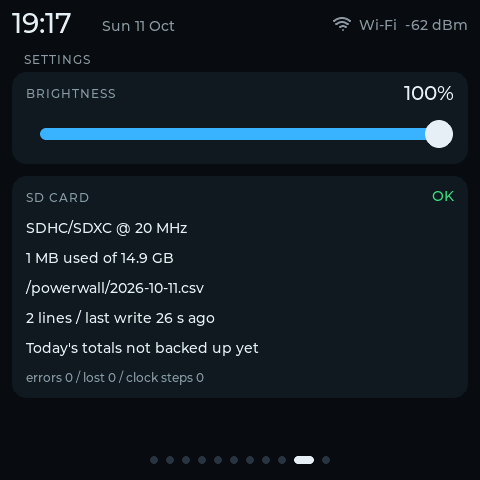
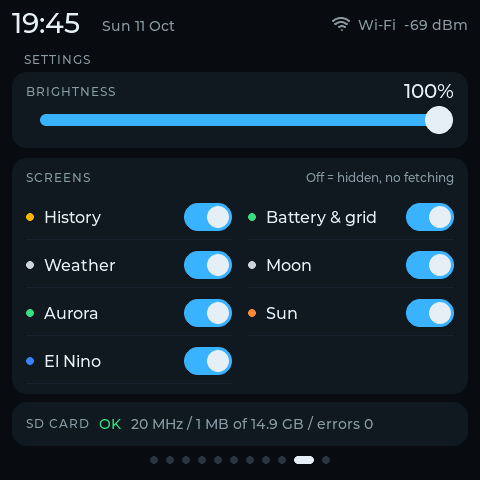
05: settings load decodes SET3 (screen mask + brightness survive reboots); y s <n> diag (forced history saves + panel CS log); saveRecord refuses invalid dates; v updates the top bar at once, screendump waits after v 1; docs: toggles, e/y s commands, inv-panel-drift (open), Q-TOOL-13, hardware log

diff --git a/projects/05-powerwall-display/src/day_history.cpp b/projects/05-powerwall-display/src/day_history.cpp
@@ -13,7 +13,10 @@
 #include "day_history.h"
 
 #include <Arduino.h>
+#include <Board4848S040_pins.h>
 #include <SD.h>
+#include <driver/gpio.h>
+#include <soc/gpio_reg.h>
 #include <atomic>
 #include <esp_attr.h>
 #include <math.h>
@@ -497,6 +500,10 @@ LoadStatus ensureMonth(int ym, const int *keep, int nkeep) {
 }
 
 bool saveRecord(const DayRecord &rec) {
+    if (!validDate(rec.date)) { // never derive a path from a record that isn't one (e.g. RTC before the clock)
+        Serial.printf("dayhist: refusing to save a record with date %ld\n", static_cast<long>(rec.date));
+        return false;
+    }
     const int ym = calc::monthOf(rec.date);
     if (ensureMonth(ym, &ym, 1) == LoadStatus::Error) return false;
     uint32_t t0 = millis();
@@ -755,8 +762,57 @@ void dayHistoryView(View &out) {
     out.seq = s_viewSeq;
 }
 
+// DIAG panel drift (serial "y s <n>"): save a copy of today's record n times, one per SD tick, logging the
+// ST7701 CS pin (GPIO39, shared SCK/SDA with the card) around each save.
+namespace {
+DayRecord s_forceRec;
+std::atomic_int s_forceN{0};
+
+void logPanelCs(const char *when) {
+    const uint32_t en = REG_READ(GPIO_ENABLE1_REG), out = REG_READ(GPIO_OUT1_REG);
+    const int bit = B4848_LCD_CS - 32;
+    Serial.printf("dayhist: diag %s: lcd cs gpio%d output-enable %d level %d (in %d)\n", when, B4848_LCD_CS,
+                  (int)((en >> bit) & 1), (int)((out >> bit) & 1), gpio_get_level(static_cast<gpio_num_t>(B4848_LCD_CS)));
+}
+
+// The junk file the first diag run wrote (fired before the clock was valid, before saveRecord checked dates)
+void removeDiagJunk() {
+    static bool done = false;
+    if (done) return;
+    done = true;
+    sdcard::Lock lk;
+    if (SD.exists("/powerwall/days/-73918--60.bin") && SD.remove("/powerwall/days/-73918--60.bin"))
+        Serial.println("dayhist: removed the junk file from the first diag run");
+}
+
+bool serveForce() {
+    removeDiagJunk();
+    if (s_forceN.load() <= 0) return false;
+    DayRecord r;
+    {
+        LockGuard g(s_mu);
+        memcpy(&r, &s_forceRec, REC_SZ);
+    }
+    const int left = --s_forceN;
+    logPanelCs("before save");
+    const bool ok = saveRecord(r);
+    logPanelCs(ok ? "after save" : "after FAILED save");
+    if (left == 0) Serial.println("dayhist: diag forced saves done");
+    return true;
+}
+} // namespace
+
+void dayHistoryForceSaves(int n) {
+    {
+        LockGuard g(s_mu);
+        memcpy(&s_forceRec, &rtc.rec, REC_SZ);
+    }
+    s_forceN.store(n);
+}
+
 void dayHistorySdTick(bool mounted) {
     s_mounted.store(mounted);
+    if (mounted && serveForce()) return;
     if (mounted != s_prevMounted) {
         s_prevMounted = mounted;
         if (mounted) { // new or swapped card: forget what the old one held

diff --git a/projects/05-powerwall-display/src/history.cpp b/projects/05-powerwall-display/src/history.cpp
@@ -66,19 +66,23 @@ void applyBacklight(int pct) {
 void loadSettings() {
     SettingsFile f;
     memset(&f, 0, sizeof(f));
-    int pct = 0;
+    setcodec::Decoded d;
     // Wrong size, unknown magic or an out-of-range value all fall back to the defaults.
     bool ok = sdcard::readAtomic(SETTINGS_PATH, &f, sizeof(f)) &&
-              blcurve::percentFromSaved(f.magic, f.value, B4848_LCD_BL_MIN, pct);
+              setcodec::decodeSettings(f.magic, f.value, f.screenMask, B4848_LCD_BL_MIN, d);
     {
         LockGuard g(s_lock);
         s_settingsLoaded = true;
         if (!ok || s_settingsDirty) return; // keep defaults, or a change made before the card was read
-        s_settings.brightnessPct = static_cast<uint8_t>(pct);
+        s_settings.brightnessPct = static_cast<uint8_t>(d.brightnessPct);
+        s_settings.screenMask = d.screenMask;
     }
-    applyBacklight(pct);
-    Serial.printf("SD: settings loaded (%s, brightness %d%%)\n",
-                  f.magic == blcurve::SETTINGS_MAGIC_V2 ? "v2" : "v1 converted", pct);
+    applyBacklight(d.brightnessPct);
+    Serial.printf("SD: settings loaded (%s, brightness %d%%, screens 0x%03x)\n",
+                  f.magic == setcodec::SETTINGS_MAGIC_V3   ? "v3"
+                  : f.magic == blcurve::SETTINGS_MAGIC_V2 ? "v2"
+                                                          : "v1 converted",
+                  d.brightnessPct, (unsigned)d.screenMask);
 }
 
 void saveSettingsIfDue() {

diff --git a/projects/05-powerwall-display/src/main.cpp b/projects/05-powerwall-display/src/main.cpp
@@ -505,6 +505,18 @@ static void handleBacklightCommand(char sub, const char *arg) {
 // y [d|w|m|-|+]: drive the history screen like its controls, then describe it (see the top of the file)
 static void cmdHistory(const char *arg) {
     bool ok = true;
+    if (arg[0] == 's' && (arg[1] == ' ' || arg[1] == '\0')) { // DIAG: y s <n> forced month-file saves
+        long n = 1;
+        if (arg[1] && !parseInt(arg + 2, 1, 50, n)) {
+            cmdReply("#err usage: y s <1..50>");
+            return;
+        }
+        dayhist::dayHistoryForceSaves(static_cast<int>(n));
+        char msg[64];
+        snprintf(msg, sizeof(msg), "y s: %ld forced saves queued #ok", n);
+        cmdReply(msg);
+        return;
+    }
     if (!strcmp(arg, "d")) ok = historySetMode(0);
     else if (!strcmp(arg, "w")) ok = historySetMode(1);
     else if (!strcmp(arg, "m")) ok = historySetMode(2);
@@ -580,6 +592,7 @@ static void handleCommand(char *line) {
             } else {
                 ui::setPrivacy(v != 0);
                 screens[current].refresh();
+                ui::topBarUpdateFor(current); // the SSID must be gone before a screenshot right after this
                 cmdReply(v ? "privacy on #ok" : "privacy off #ok");
             }
             break;

diff --git a/projects/05-powerwall-display/src/day_history.h b/projects/05-powerwall-display/src/day_history.h
@@ -79,6 +79,10 @@ void dayHistoryView(View &out);
 // SD task only (history.cpp's loop, every 250 ms): saves due records and serves pending reads.
 void dayHistorySdTick(bool mounted);
 
+// DIAG (serial "y s <n>"): save today's record n times in a row on the SD task, logging the panel's CS pin
+// around each save (panel-drift investigation). UI thread.
+void dayHistoryForceSaves(int n);
+
 // Diagnostics for the serial "y" command: one line describing records saved / loaded / errors.
 void dayHistoryStatusLine(char *buf, size_t n);
 

diff --git a/projects/05-powerwall-display/tools-dev/screendump.py b/projects/05-powerwall-display/tools-dev/screendump.py
@@ -126,6 +126,7 @@ def main():
     ser.open()
     if a.privacy:
         print(command(ser, "v 1"))
+        time.sleep(1.5)  # let the top bar redraw with the placeholder before any shot (older firmware: next tick)
     targets = []
     if a.all:
         listing = command(ser, "l")  # "screens: 0*house, 1 today, ... #ok" (* = current)

diff --git a/CLAUDE.md b/CLAUDE.md
@@ -72,12 +72,12 @@ Public repo (github.com/Figment-Sieve-Industries/esp32-4848s040-lab): commits on
 
 ## Project 05 (Powerwall display) - current state
 - Main screen = design **N** with design **O**'s battery-bar Powerwall pill (colour by charge, % badge inside the battery) from the maintainer's private design canvas (a claude.ai artifact; link not published). Boards A-O there are the option history (P = moon, Q = aurora). Change the canvas first for layout work, then build the chosen board.
-- 11 screens (`ScreenIndex` in `ui_common.h`, `s <0..10>`): house, today, history, health (battery & grid), weather (with sunrise/sunset), moon, aurora, sun, El Nino, settings, about. All credits live on the About screen only (personal device).
+- 11 screens (`ScreenIndex` in `ui_common.h`, `s <0..10>`): house, today, history, health (battery & grid), weather (with sunrise/sunset), moon, aurora, sun, El Nino, settings, about. Settings has on/off switches for the optional screens (history, health, weather, moon, aurora, sun, El Nino; mask in `settings.bin` SET3, `settings_codec.h`): off screens are skipped in navigation and page dots and their network jobs are gated (`netSetJobEnabled`), except weather (the house card needs it). All credits live on the About screen only (personal device).
 - Architecture: `powerwall.cpp` runs the single network task on core 0: each pass polls the Powerwall LAN API (Bearer token) then runs at most one due job (Open-Meteo 15 min, sky/space 30 min, sun image 1 h, ENSO 12 h), so only one TLS session ever exists. LVGL runs on core 1 only. Screens are `screen_*.cpp` behind `screens.h`, sharing `ui_common.*` (palette, top bar, page dots, animations). `energy.cpp` keeps today's totals in RTC memory, backed up to SD via `history.cpp` (SD task on core 0: minute CSV log, baseline, settings). `day_history.cpp` (history screen) builds today's hourly bins from the lifetime counters in RTC memory and saves one 448-byte record per day into `/powerwall/days/YYYY-MM.bin` from the SD task, with a 3-month PSRAM cache the UI reads (it never touches the card; ADR-35 in guide 04). `sky.cpp` fetches AuroraWatch UK + NOAA Kp every 30 min and MET Norway moon times once a day; `moon_calc.cpp` does the phase maths. `space.cpp` (NOAA SWPC + SOHO sun JPEG via LVGL's TJpgDec) and `enso.cpp` (NOAA CPC, HTTP Range tails) feed the sun and El Nino screens.
 - **The user does not want internal-flash writes at runtime** (wear). Use RTC memory now; an SD card later.
 - Memory: LVGL heap = 1 MB PSRAM pool (`LV_MEM_POOL_ALLOC`). No `LV_ATTRIBUTE_FAST_MEM`. mbedTLS allocations of 1 KB+ go to PSRAM (`mbedtls_platform_set_calloc_free` in `powerwall.cpp`); every `JsonDocument` uses `psramJson()` (`psram_json.h`). `WiFi.persistent(false)`: no NVS writes. Keep ~100 KB+ internal free; the serial heartbeat and `[tls]` lines show the low-water mark.
 - Fonts: built-in Montserrat only has ASCII + the degree sign; there is no middle dot, so use "/".
 - Shared modules: `net_http` (every background fetch: `net::Session`, own de-chunker, deadlines, per-job budget), `shared_state.h` (`Mutex`/`Shared<T>`/`isStale`), `mem_util.h` (PSRAM buffers, `psramJson()`), `time_util` (dates, `tu::clockValid`), `ui_common` helpers + `ui_chart` (`BarChart`: one object per bar strip). Host tests: `hosttest/run.ps1`.
-- Testing on hardware: serial commands `s <n>` / `n` / `p` / `l` / `b` / `bf` / `bd` / `br` / `bs` / `y [d|w|m|-|+]` / `m` / `x` (see main.cpp). `tools-dev/screendump.py COM9 out --all` screenshots every screen to PNG (opens the port without resetting the board). Use it to check layouts after UI changes.
+- Testing on hardware: serial commands `s <n>` / `n` / `p` / `l` / `b` / `bf` / `bd` / `br` / `bs` / `y [d|w|m|-|+]` / `y s <n>` (diag: forced history saves) / `e [<n> <0|1>]` (screens on/off) / `m` / `x` / `v` / `c` / `r` / `h` (see main.cpp). With `--privacy`, give single shots `--settle 3` or the top bar may still show the SSID. `tools-dev/screendump.py COM9 out --all` screenshots every screen to PNG (opens the port without resetting the board). Use it to check layouts after UI changes.
 - Editing tip: shell heredocs and sed in the Bash tool turn `\n` inside C strings into real newlines (doubling it to `\\n` doesn't help: the backslashes collapse too). Edit C/C++ and any file containing `\n` with the Edit/Write tools, or write a script file with Write and run it. See guide Q-TOOL-02.
 - Sub-agents: the user wants parallel sub-agents where possible, with model/effort matched to the task (e.g. Sonnet medium for well-specified screen files). Write the shared headers/contracts first; agents build with a separate `PLATFORMIO_BUILD_DIR` to avoid collisions.

diff --git a/docs/guide/03-investigations.md b/docs/guide/03-investigations.md
@@ -50,6 +50,7 @@ Hardware: one Guition ESP32-4848S040C_I ("unit 1"; ESP32-S3 N16R8, 4" 480x480 ST
 | [inv-tls-gateway-refusals](#inv-tls-gateway-refusals) | Gateway refuses TLS handshakes | Network | open (keep-alive under trial) | 27.9 -> 2.2 TLS connects/min; 19 -> 1 refusals | 2026-10-11 |
 | [inv-barchart-empty](#inv-barchart-empty) | Aurora and sun bar strips empty | UI | fixed | empty -> drawn (seen in screenshots) | 2026-10-11 |
 | [inv-tooling-pitfalls](#inv-tooling-pitfalls) | Measurements spoiled by tooling | Method | documented | 2 measurements invalidated | 2026-10-11 |
+| [inv-panel-drift](#inv-panel-drift) | Panel image shifted sideways once | Display | open | 60 forced SD saves: no shift | 2026-10-11 |
 | [inv-minor](#inv-minor) | Smaller findings | Various | mostly fixed | see table | 2026-10-08 to 11 |
 
 ---
@@ -996,6 +997,30 @@ The same screenshot pass fixed text fit (the "Geomagnetic" chip, the health life
 
 ---
 
+### <a id="inv-panel-drift"></a>Panel image shifted sideways (open)
+
+| | |
+|---|---|
+| Date | 2026-10-11 |
+| Area | Display |
+| Status | open: seen once, not reproduced; a reboot cleared it |
+
+**Symptom.** "the screen has gone glitchy and wrapping slightly around" (owner), during a soak of the history build. The shift stayed until a reboot.
+
+**What was checked.**
+1. Screenshot (`x`) while the panel was shifted: the framebuffer was correct. So LVGL drew the right picture; the panel's RGB scan-out lost its position (DMA/bounce-buffer underrun class, [12](../12-esp32-performance-and-framework.md) section 3), not a rendering bug.
+2. No reset, crash or watchdog in the soak log. The only new kind of I/O in that build: the history month file (14 KB) saved every 10 minutes; the first save in that run took 632 ms.
+3. Hypothesis A: SD traffic on the pins shared with the ST7701's 3-wire bus (SCK 48, SDA 47) clocking garbage into the panel. Diag `y s <n>` logged GPIO39 (panel CS) around each save: output enabled, level 1 throughout. 60 forced saves (20 + 40, 210-260 ms each), owner watching: **no shift**. Rejected for now.
+4. Hypothesis B: a burst of PSRAM/SD/network load at the same moment. Not reproduced by the save bursts alone.
+
+**Notes.** `[stall]` lines of 0.6-1.7 s on the history screen are not stalls: the screen is static (0 fps), and the next frame reports the idle gap (the detector counts any gap of 120-2000 ms).
+
+**Next.** Long soak with the owner noting the time if it recurs; candidates: an automatic panel resync (`esp_lcd_rgb_panel_restart` in a quiet moment, needs the panel handle from Arduino_GFX), or a lower PCLK. Nothing changed yet.
+
+**Sources.** `soak-history.log`, `y s` runs (transcript 2026-10-11).
+
+---
+
 ### <a id="inv-minor"></a>Smaller findings
 
 | Anchor | Date | Finding | Evidence | Fix (commit) | Status |
@@ -1009,6 +1034,8 @@ The same screenshot pass fixed text fit (the "Geomagnetic" chip, the health life
 | <a id="inv-baseline-padding"></a>inv-baseline-padding | 2026-10-11 | Restoring today's totals from SD could produce a copy that fails its own checksum | Struct assignment may not copy padding that the FNV checksum covers | `memcpy` (`14a049f`) | fixed before reaching the device |
 | <a id="inv-wifi-nvs-writes"></a>inv-wifi-nvs-writes | 2026-10-11 | Wi-Fi config written to NVS (internal flash) at runtime | Research: `WiFi.persistent()` defaults to true in core 3.2.1 (`WiFiGeneric.cpp`) | `WiFi.persistent(false)` (`cca53c5`) | fixed |
 | <a id="inv-swpc-a00"></a>inv-swpc-a00 | 2026-10-11 | Sun screen showed flare class `A0.0` | Interpreted as SWPC reporting zero flux during a GOES data gap (not confirmed against NOAA documentation) | `A0.0` ignored, last class kept (`496462e`) | fixed |
+| <a id="inv-settings-load-v3"></a>inv-settings-load-v3 | 2026-10-11 | Screen on/off switches and brightness forgotten after a reboot | Serial: `e 5 0`, reboot, `e` showed 0x7ff; `history.cpp` still decoded with the SET2-only `percentFromSaved`, which rejects "SET3" | `loadSettings` uses `setcodec::decodeSettings`; boot log prints `settings loaded (v3, ..., screens 0x...)` | fixed, checked on hw |
+| <a id="inv-dayhist-junk-file"></a>inv-dayhist-junk-file | 2026-10-11 | A forced save right after boot wrote `/powerwall/days/-73918--60.bin` | The diag `y s` copied today's RTC record before the clock was valid; `saveRecord` built the path from an unchecked date | `saveRecord` refuses invalid dates; the junk file was removed by the next boot | fixed |
 | <a id="inv-sun-jpeg-6"></a>inv-sun-jpeg-6 | 2026-10-11 | `Space: sun JPEG decode failed (6)` once in `soak-flush2.log` | One occurrence in 5 soaks; TJpgDec error 6 not investigated | none | open |
 
 ---

diff --git a/projects/05-powerwall-display/README.md b/projects/05-powerwall-display/README.md
@@ -114,7 +114,7 @@ Swipe left and right. The page dots at the bottom show where you are.
 | 6 | **Aurora (UK)** | The AuroraWatch UK alert level, the last 24 hours of activity, and a three-day Kp strip (seen and forecast). |
 | 7 | **Sun and space weather** | A live photo of the Sun from SOHO, X-ray flare class and odds, NOAA R/S/G scales, solar wind, sunspot number and F10.7 flux. |
 | 8 | **El Nino (ENSO)** | The NOAA CPC status, weekly Nino 3.4 and its anomaly, ONI and RONI, 12 months of history and the outlook odds. |
-| 9 | **Settings** | Backlight brightness slider, 0 to 100 % on a gamma curve (0 % is the dimmest level that is still lit; the position is saved on the SD card) and SD card status: card type and clock, space used, today's log file, lines written, last write, and whether today's totals are backed up. |
+| 9 | **Settings** | Backlight brightness slider, 0 to 100 % on a gamma curve (0 % is the dimmest level that is still lit). **Screens** switches for History, Battery & grid, Weather, Moon, Aurora, Sun and El Nino (power flow, Today, Settings and About are always on): a screen that is off is skipped when swiping, drops out of the page dots and stops its fetches (Moon: MET Norway moon times; Aurora: AuroraWatch + Kp; Sun: SWPC + the SOHO image; El Nino: CPC). Weather keeps fetching because the power-flow screen's weather card uses it, and history logging keeps running. Objects of an off screen stay allocated until the next restart. One-line SD card status (clock, space, errors). Brightness and screens are saved on the SD card (`settings.bin`, format SET3; SET1/SET2 files still load). |
 | 10 | **About** | The firmware name and the data credits for every source the device uses. |
 
 If gateway data is more than 20 seconds old the values show `--`, and a short error message appears below the page dots. Weather older than an hour is shown as stale.
@@ -189,6 +189,8 @@ Type a line into the serial monitor (115200 baud) to drive the display without t
 | `bd <duty>` | Raw backlight duty at the current resolution, 0 to the maximum shown by `br` (not saved) |
 | `br` | Report the backlight: `backlight 100000 Hz, 8 bits, duty 255 of 255, assumed minimum 100 #ok` |
 | `bs [steps [ms [from [to]]]]` | Watch-the-panel sweep: steps the raw duty from `from` to `to` (default 0 to the maximum) in `steps` steps (default 16, 2 to 256), `ms` apart (default 1000, 100 to 10000), printing `bs i/n duty D @ F Hz` per step. Runs in the background; `bs 0` or any `b`, `bd` or `bf` stops it. The brightness setting comes back at the end (`bs done ... #ok`) |
+| `e [<n> <0\|1>]` | Screens on/off: `e` lists the mask, `e 5 0` turns screen 5 off (same as the Settings switch, saved). Always-on screens answer `#err screen can't be disabled`; `s <n>` to an off screen answers `#err screen disabled`; `l` marks off screens with `-` |
+| `y s <1..50>` | Diagnostic: save today's history record n times in a row, logging the panel CS pin (GPIO39) around each save (panel-drift investigation, see guide 03 `inv-panel-drift`) |
 | `y [d\|w\|m\|-\|+]` | History screen: `d`, `w`, `m` pick the Day, Week or Month tab, `-` and `+` step to the previous or next period; no argument just describes what the screen shows. Every form also prints the day-history store status (records saved, loaded, errors) |
 | `m` | Print the memory and heap line |
 | `x` | Screenshot: the framebuffer as base64 lines at 921600 baud (used by `screendump.py`) |

diff --git a/README.md b/README.md
@@ -28,7 +28,7 @@ A wall-mounted energy monitor for **Tesla Powerwall 3** owners. The ESP32 talks 
     <td align="center"><a href="docs/images/screens/05-8-enso.png"><img src="docs/images/screens/05-8-enso.png" width="240" alt="El Nino screen: ENSO status, Nino 3.4 and outlook odds"></a><br>El Nino (ENSO)</td>
   </tr>
   <tr>
-    <td align="center"><a href="docs/images/screens/05-9-settings.png"><img src="docs/images/screens/05-9-settings.png" width="240" alt="Settings screen: brightness slider and SD card status"></a><br>Settings (brightness, SD card)</td>
+    <td align="center"><a href="docs/images/screens/05-9-settings.png"><img src="docs/images/screens/05-9-settings.png" width="240" alt="Settings screen: brightness slider, screen on/off switches and SD card status"></a><br>Settings (brightness, screens on/off, SD card)</td>
     <td align="center"><a href="docs/images/screens/05-10-about.png"><img src="docs/images/screens/05-10-about.png" width="240" alt="About screen: data sources and credits"></a><br>About and credits</td>
     <td align="center"><a href="docs/images/screens/05-2-history-week.png"><img src="docs/images/screens/05-2-history-week.png" width="240" alt="History screen, Week tab: solar and grid import per day"></a><br>History (week)</td>
   </tr>
@@ -44,7 +44,7 @@ Screenshots are real framebuffer captures from the board, taken in privacy mode 
 **What it does**
 
 - **Live power flow** from the gateway every 2 seconds: solar, grid, house load and Powerwall power, battery state of charge, grid import or export, voltage, and an off-grid banner during an outage.
-- **Eleven swipeable screens:** power flow, today, history, battery and grid, weather, moon, aurora (UK), sun and space weather, El Nino, settings (SD card status and brightness), and about.
+- **Eleven swipeable screens:** power flow, today, history, battery and grid, weather, moon, aurora (UK), sun and space weather, El Nino, settings (brightness, turn optional screens on or off, SD card status), and about. Screens you turn off are skipped when swiping and stop their data fetches.
 - **History charts:** solar and grid import per hour, per day of the week and per day of the month, with the battery level on the day view, a tap-for-readout on every bar and a stepper back through earlier periods. Needs the SD card for anything before today.
 - **Weather** shows today's sunrise and sunset.
 - **Local only.** It uses the same customer login as the gateway's own web page. There is no Tesla cloud account, API key or subscription, and your Powerwall readings are never sent anywhere. The only outside requests are to the public weather and space-weather sources listed below (the weather ones carry your configured location).

diff --git a/docs/hardware-log.md b/docs/hardware-log.md
@@ -23,6 +23,9 @@ What has been verified on real units. Add an entry each time something is tested
 | Rotated flush (05, 2026-10-11) | With `SCREEN_ROTATION` 3, Arduino_GFX's `draw16bitRGBBitmap` wrote each LVGL strip column-wise and wrote back every full framebuffer row it touched (~460 KB of cache write-back for a 480x48 strip). Full-screen redraw **254 ms -> 142 ms** and the ~300 ms many-area redraws (visible stutter) **-> ~145-185 ms** after `lvglBegin`'s own rotation-3 path (contiguous row segments + per-segment write-back). Crackle under PSRAM load: also helped by 2x bounce buffers (480x20) and keeping mbedTLS's small blocks in internal RAM |
 | Rotated flush, 03 bench (2026-10-11) | A/B in `03-lvgl-demos` (envs `bench`, `bench-rot3`, `bench-rot3-gfx`): average 35 / 33 / 29 FPS, flush 9 / 13 / 49 ms. Full-screen flush 20 ms (rotation 0), 27 ms (rotation 3, own path), 110-152 ms (rotation 3, Arduino_GFX). Render time identical. Table: [guide 03](guide/03-investigations.md#inv-stutter-rotated-flush) |
 | Backlight control v2 (2026-10-11) | Gamma slider + `bf`/`bd`/`br`/`bs` commands on unit 1 (100 kHz, 8 bits by default). Owner: "the tiniest bit of whine but that's fine" (frequency and duty at the time not recorded; earlier 8-bit 100 kHz test heard none). Full frequency sweep not done |
+| History screen + day store (2026-10-11) | Day / week / month views correct on unit 1 (screenshots). Idle on the screen: 0 fps, no redraw. Tab / period change renders 100-117 ms (~85-116k px). Month-file save 14 KB: 210-260 ms (one 632 ms in a soak), loads 76-78 ms. Internal free unchanged at ~132 KB polling. Sunrise / sunset row on weather shows |
+| Screen on/off switches (2026-10-11) | `e` command and Settings switches: navigation skips off screens, `s` to an off screen errors, mask survives a reboot (after the SET3 load fix) |
+| Panel drift (2026-10-11) | Image shifted sideways once during a soak, cleared by a reboot; framebuffer was correct. 60 forced SD saves did not reproduce it. Open: guide 03 `inv-panel-drift` |
 | Not yet tested | Corner accuracy, backlight cut-out below 100, audio, relays, battery |
 
 ### LVGL benchmark, unit 1 (2026-10-10)

diff --git a/docs/guide/01-quirks-and-gotchas.md b/docs/guide/01-quirks-and-gotchas.md
@@ -174,6 +174,7 @@ Status key: F fixed, W worked-around, O open, D documented.
 | [Q-TOOL-10](#q-tool-10) | esptool v5 syntax and finding the port | D | PlatformIO's bundled esptool |
 | [Q-TOOL-11](#q-tool-11) | Public-repo hygiene: secrets and identifiers in history | W | Any repo going public |
 | [Q-TOOL-12](#q-tool-12) | Decoding a crash backtrace | D | Any Arduino-ESP32 firmware |
+| [Q-TOOL-13](#q-tool-13) | A screenshot right after privacy mode can still show the SSID | F | This project's screenshot tool |
 
 ---
 
@@ -991,6 +992,14 @@ Checked with `curl` on 2026-10-11 around 12:00 UTC; full tables in [docs/11](../
 - **Fix:** `monitor_filters = esp32_exception_decoder` decodes live. Offline: `xtensa-esp32s3-elf-addr2line -pfiaC -e .pio/build/<env>/firmware.elf <addresses>` (from `~/.platformio/packages/toolchain-xtensa-esp-elf/bin`). A backtrace through `HTTPClient::getString` names [Q-NET-01](#q-net-01); one through `is_jpg` names [Q-LVGL-02](#q-lvgl-02); one ending in `xQueueSemaphoreTake` from an early task names [Q-FW-01](#q-fw-01).
 - **Evidence:** Used for all three crashes above.
 - **Status:** documented. **Applies to:** any Arduino-ESP32 firmware.
+
+<a id="q-tool-13"></a>
+### Q-TOOL-13 A screenshot right after privacy mode can still show the SSID
+- **Symptom:** `screendump.py ... --privacy` without `--all` saved a PNG whose top bar showed the real Wi-Fi name.
+- **Root cause:** `v 1` refreshed the current screen but not its top bar; the top bar only changed on the next 500 ms refresh tick, and a single shot can be faster than that.
+- **Fix:** the `v` command now updates the top bar at once (`ui::topBarUpdateFor`), and `screendump.py` waits 1.5 s after `v 1`. Look at every PNG before committing it.
+- **Evidence:** A single shot on 2026-10-11 (deleted, never committed).
+- **Status:** fixed. **Applies to:** this project's screenshot tool.
 
 ---
 
